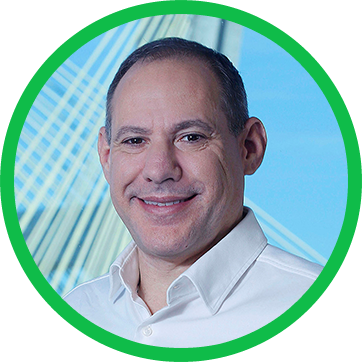
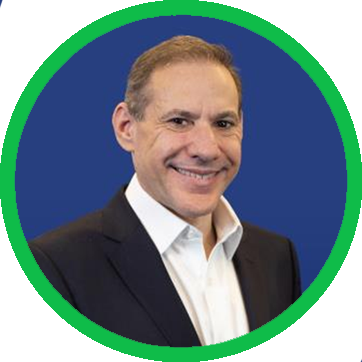
ajustes css/js tocar foto diretor e audio para safari

diff --git a/index.html b/index.html
@@ -230,15 +230,16 @@
         <div class="pergunta">
 
             <iframe
-                id="youtubeVideo"
-                width="100%"
-                height="315"
-                src="https://www.youtube.com/embed/v4ONR6xnq4Q?enablejsapi=1"
-                title="YouTube video player"
-                frameborder="0"
-                allow="accelerometer; autoplay; clipboard-write; encrypted-media; gyroscope; picture-in-picture"
-                allowfullscreen>
-            </iframe>
+    id="youtubeVideo"
+    width="100%"
+    height="315"
+    src="https://www.youtube.com/embed/v4ONR6xnq4Q"
+    title="YouTube video player"
+    frameborder="0"
+    allow="accelerometer; autoplay; clipboard-write; encrypted-media; gyroscope; picture-in-picture"
+    referrerpolicy="strict-origin-when-cross-origin"
+    allowfullscreen>
+</iframe>
 
         </div>
     </div>
@@ -333,6 +334,6 @@
 
 
 </body>
-<script src="./js/script.js"></script>
+<!-- <script src="./js/script.js"></script> -->
 
 </html>

diff --git a/css/style.css b/css/style.css
@@ -236,7 +236,7 @@ input {
 
 
 
-section {
+/* section {
   opacity: 0;
   transform: translateY(20px);
   transition: all .5s ease;
@@ -247,7 +247,7 @@ section.show {
   display: block;
   opacity: 1;
   transform: translateY(0);
-}
+} */
 
 @media (max-width: 500px) {
   .container {